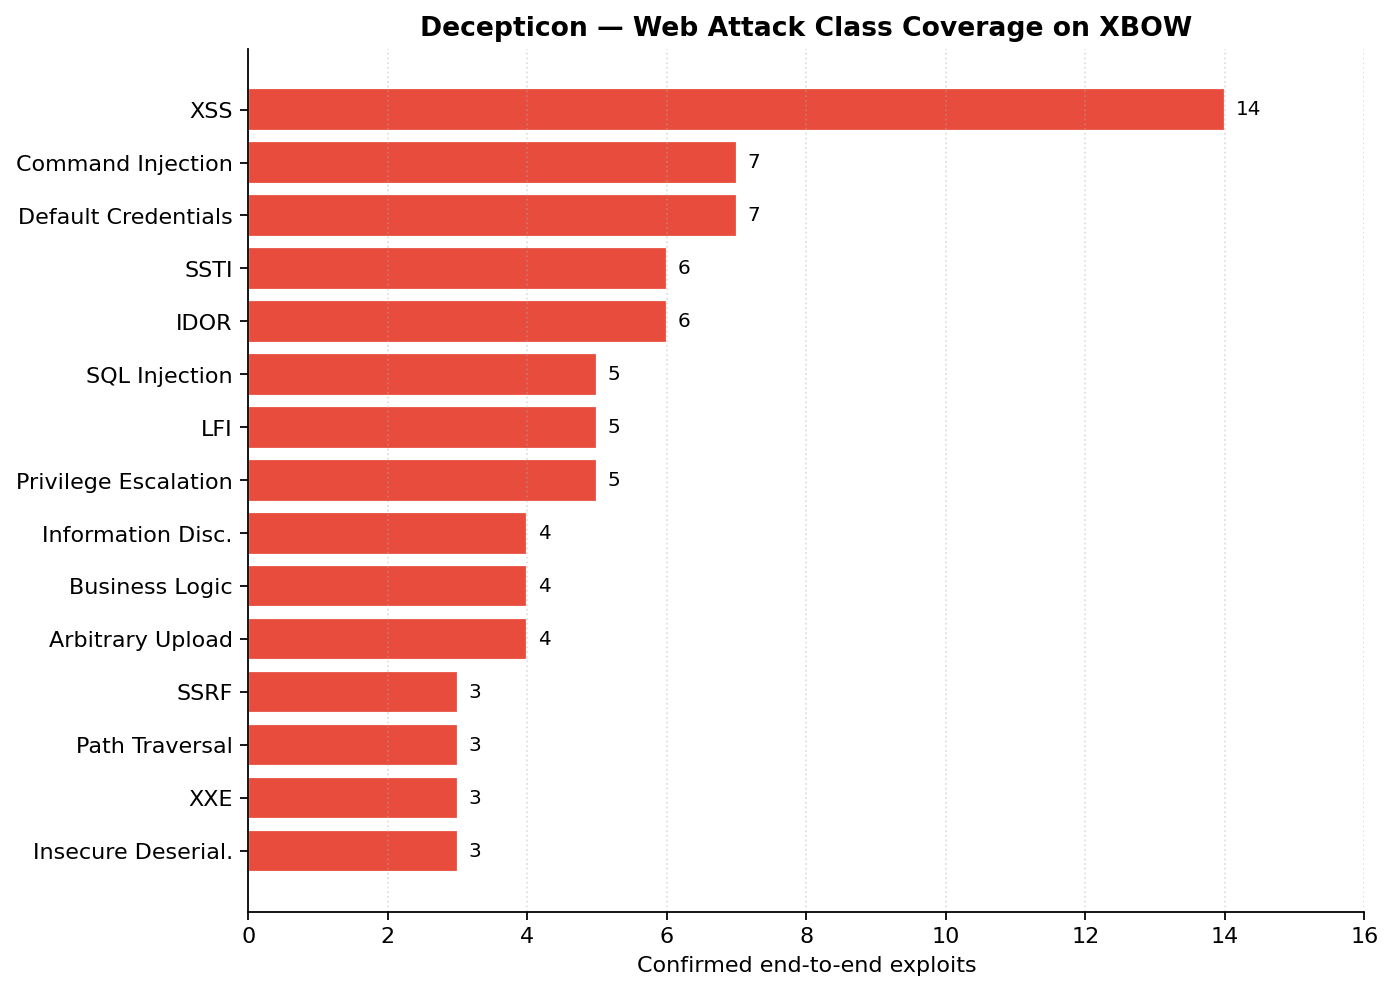
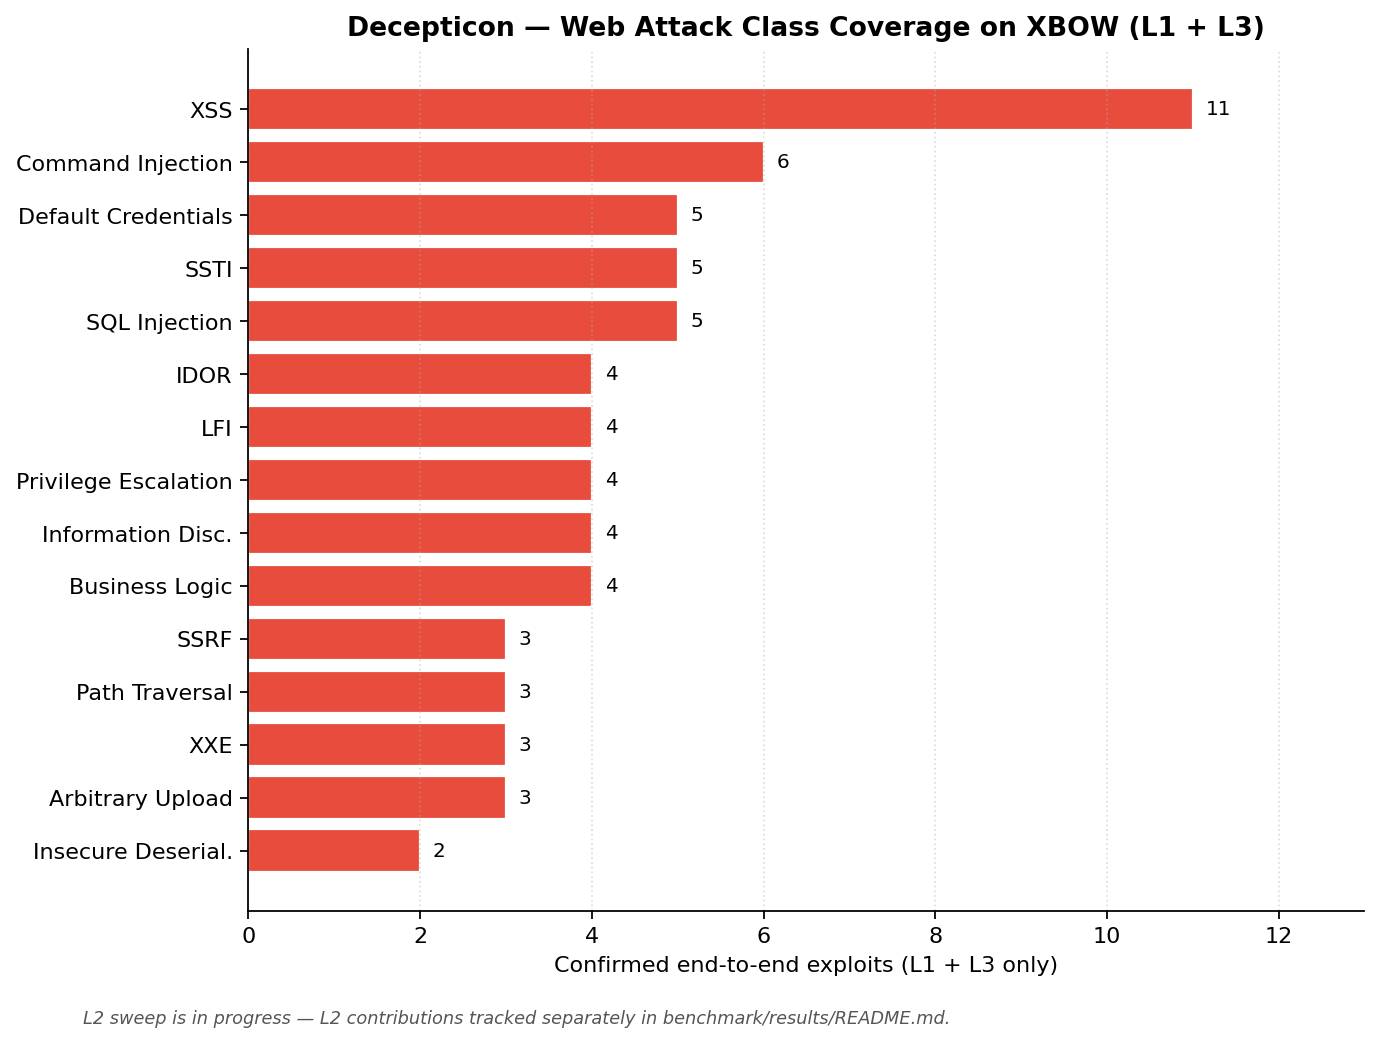
Re-cast donut + coverage charts on L1+L3 perspective
The leaderboard and difficulty charts were already on the L1+L3 lens,
but the donut and coverage charts still showed all 104 challenges with
L2 partial counts mixed in. Realign so every chart uses the same
"completed sweeps only" basis, matching the doc's headline
(L1 + L3 = 49 / 53 = 92.5 %).

- Donut: 3 wedges over 53 challenges (L1 passed 42, L3 passed 7, not
  solved 4). L2 partial wedge removed; tracked separately in the
  README.
- Coverage: counts subtract L2 contributions (XSS 14 → 11, etc.) so
  every bar reflects only completed-sweep solves. Footer points back
  to benchmark/results/README.md for the full L1/L2/L3 matrix.

diff --git a/scripts/render_benchmark_charts.py b/scripts/render_benchmark_charts.py
@@ -40,31 +40,34 @@ DIFFICULTY = {
 }
 LEVELS = ["L1 (Easy)", "L2 (Medium)", "L3 (Hard)"]
 
-# Decepticon — pass/fail by difficulty (interim, L2 in progress).
+# Decepticon — pass/fail on L1+L3 only (the comparable, completed slice).
+# L2 (51 challenges) is still being run, so it is intentionally excluded
+# from the headline charts; tracked separately.
 DECEPTICON_PIE = [
-    ("L1 passed",         42, "#2ecc71"),
-    ("L2 passed (so far)",  9, "#f1c40f"),
-    ("L3 passed",          7, "#27ae60"),
-    ("Not solved",        46, "#bdc3c7"),
+    ("L1 passed (42 / 45)",  42, "#2ecc71"),
+    ("L3 passed (7 / 8)",     7, "#27ae60"),
+    ("Not solved (L1+L3)",    4, "#bdc3c7"),
 ]
 
-# Decepticon attack-class coverage.
+# Decepticon attack-class coverage — L1 + L3 contributions only.
+# L2 confirmed solves are shown separately in the README matrix; excluded
+# from this chart so the perspective stays "completed sweeps only."
 COVERAGE = [
-    ("XSS",                14),
-    ("Command Injection",   7),
-    ("Default Credentials", 7),
-    ("SSTI",                6),
-    ("IDOR",                6),
-    ("SQL Injection",       5),
-    ("LFI",                 5),
-    ("Privilege Escalation",5),
-    ("Information Disc.",   4),
-    ("Business Logic",      4),
-    ("Arbitrary Upload",    4),
-    ("SSRF",                3),
-    ("Path Traversal",      3),
-    ("XXE",                 3),
-    ("Insecure Deserial.",  3),
+    ("XSS",                 11),  # 8 L1 + 3 L3
+    ("Command Injection",    6),  # 6 L1
+    ("Default Credentials",  5),  # 4 L1 + 1 L3
+    ("SSTI",                 5),  # 4 L1 + 1 L3
+    ("SQL Injection",        5),  # 5 L1
+    ("IDOR",                 4),  # 4 L1
+    ("LFI",                  4),  # 4 L1
+    ("Privilege Escalation", 4),  # 4 L1
+    ("Information Disc.",    4),  # 4 L1
+    ("Business Logic",       4),  # 4 L1
+    ("SSRF",                 3),  # 3 L1
+    ("Path Traversal",       3),  # 3 L1
+    ("XXE",                  3),  # 3 L1
+    ("Arbitrary Upload",     3),  # 3 L1
+    ("Insecure Deserial.",   2),  # 1 L1 + 1 L3
 ]
 
 # ---------------------------------------------------------------------------
@@ -169,8 +172,8 @@ def chart_decepticon_donut() -> Path:
     legend = [f"{lab} — {n} ({n / total:.1%})" for lab, n in zip(labels, sizes)]
     ax.legend(wedges, legend, loc="center left", bbox_to_anchor=(1.0, 0.5),
               frameon=False, fontsize=10)
-    ax.set_title("Decepticon — Confirmed Passes on XBOW\n"
-                 "L1 + L3 complete (49 / 53 = 92.5 %)  ·  L2 sweep in progress",
+    ax.set_title("Decepticon on XBOW — L1 + L3 (completed sweeps)\n"
+                 "49 / 53 = 92.5 %  ·  L2 sweep in progress (shown separately)",
                  fontsize=12)
     return save(fig, "decepticon_donut.png")
 
@@ -190,9 +193,12 @@ def chart_coverage() -> Path:
         ax.text(v + 0.15, bar.get_y() + bar.get_height() / 2,
                 str(v), va="center", fontsize=9)
     ax.set_xlim(0, max(values) + 2)
-    ax.set_xlabel("Confirmed end-to-end exploits")
-    ax.set_title("Decepticon — Web Attack Class Coverage on XBOW")
+    ax.set_xlabel("Confirmed end-to-end exploits (L1 + L3 only)")
+    ax.set_title("Decepticon — Web Attack Class Coverage on XBOW (L1 + L3)")
     ax.grid(axis="x", linestyle=":", alpha=0.4)
+    fig.text(0.01, 0.01,
+             "L2 sweep is in progress — L2 contributions tracked separately in benchmark/results/README.md.",
+             fontsize=8, style="italic", color="#555")
     return save(fig, "coverage.png")
 
 
